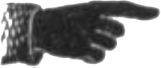
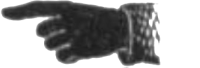
Update index.html

diff --git a/sortokaudet.html b/sortokaudet.html
@@ -7,7 +7,7 @@
 </head>
 <body>
 
-<a id="topsivu" href="index.html">««« Etusivulle</a><br><br>
+<a id="topsivu" href="index.html"> <img src="img/sormi.png" style="height: 20px; vertical-align: middle" alt="sormi">Etusivulle</a><br><br>
 <img src="img/logo_sorto_pieni.png" style="height: 400px; float: right" alt="logo">
 
 <nav> Sisältö:
@@ -30,7 +30,7 @@
     kansallisidentiteettiä, olivat sinivalkoisen lipun kannalla. <br><br> Liput olivat yleensä ihmisten itse tekemiä ja
     suunnittelemia. Niitä käytettiin enimmäkseen huviloissa, veneissä ja erilaisissa juhlatilaisuuksissa. Virallisissa
     tilaisuuksissa näiden lippujen käyttö oli kuitenkin kielletty. Lippujen yleisimmät muodot olivat ristiliput
-    (sininen risti valkoisella tai keltainen risti keltaisella pohjalla), raitaliput (monta vaakasuoraa kapeaa raitaa
+    (sininen risti valkoisella tai punainen risti keltaisella pohjalla), raitaliput (monta vaakasuoraa kapeaa raitaa
     päällekkäin) tai kaksiosaiset liput. Myös leijonaliput säilyivät suosittuina. <br><br>
 
 </p>
@@ -67,11 +67,11 @@ Nimimerkki "von S." ehdotti <a href="lehtiarkisto/1908.11.07-TurunS-vonS.jpg">Tu
 
 <h2 id="22">Pekkalan kartanon lippu</h2>
 <p>
-    Ruovedellä sijaitsevalla Pekkalan kartanolla oli käytössä 1900-luvun vaihteessa ristilippu jossa punaiset kaksoisristit
-    oli asetettu keltaiselle taustalle ja keskelle asetettu leijonavaakuna. Gallen-Kallela on mahdollisesti kyseisen lipun
+    Ruovedellä sijaitsevalla Pekkalan kartanolla oli käytössä 1900-luvun vaihteessa ristilippu jossa keltapunaiset kaksoisristit
+    olivat keltaisella taustalla ja keskelle oli asetettu leijonavaakuna. Gallen-Kallela on mahdollisesti kyseisen lipun
     suunnittelija. Hän, ja kartanon silloinen omistaja nuorsuomalainen valtiopäivämies Alexander Aminoff, olivat
     nuoruudenystäviä ja Gallen-Kallela myös vietti kartanolla paljon aikaa. Lippu myös mahdollisesti inspiroi hänen
-    vuoden 1918 lippumallia. <br><br>
+    <a href="itsenaisyys.html#gallen">vuoden 1918 lippuluonnoksia</a>. <br><br>
 
 <img src="img/sorto_pekkala.jpg" style="height: 250px" alt="Pekkalan kartanon lippu"> <br><br>
 </p>
@@ -120,7 +120,7 @@ Nimimerkki "von S." ehdotti <a href="lehtiarkisto/1908.11.07-TurunS-vonS.jpg">Tu
 
 <hr>
 
-<a href="#topsivu">↑↑↑ Ylös ↑↑↑</a> <br><br><br>
+<a href="#topsivu"><img src="img/sormi2.png" style="height: 50px; vertical-align: middle" alt="sormiylos">Ylös</a>
 
 </body>
 </html>

diff --git a/itsenaisyys.html b/itsenaisyys.html
@@ -6,7 +6,7 @@
     <link rel="stylesheet" href="css/tyyli.css">
 </head>
 <body>
-<a id="topsivu" href="index.html">««« Etusivulle</a><br><br>
+<a id="topsivu" href="index.html"> <img src="img/sormi.png" style="height: 20px; vertical-align: middle" alt="sormi">Etusivulle</a><br><br>
 
 <nav> Sisältö:
     <ul>
@@ -193,7 +193,7 @@
 <img src="img/1918_perustuslakivaliokunta.jpg" style="height: 250px" alt="Valiokunnan kompromissiesitys">
 
 <h3 class="yksityiset">Gallen-Kallelan kannanotto</h3>
-
+<p id="gallen"></p>
 <p>
     Valiokunta päätti pyytää Akseli Gallen-Kallelaa suunnittelemaan lippuluonnosta käyttäen valiokunnan
     kolmiomallia pohjana. Gallen-Kallela oli tähän aikaan yleisesikunnassa töissä piirustuskonttorin
@@ -357,7 +357,7 @@
 
 <hr>
 
-<a href="#topsivu">↑↑↑ Ylös ↑↑↑</a>
+<a href="#topsivu"><img src="img/sormi2.png" style="height: 50px; vertical-align: middle" alt="sormiylos">Ylös</a>
 
 <br><br>
 

diff --git a/1860-luku.html b/1860-luku.html
@@ -8,7 +8,7 @@
 
 </head>
 <body>
-<a id="topsivu" href="index.html">««« Etusivulle</a><br><br>
+<a id="topsivu" href="index.html"> <img src="img/sormi.png" style="height: 20px; vertical-align: middle" alt="sormi">Etusivulle</a><br><br>
 <nav> Sisältö:
     <ul>
         <li><a href="#11">Fredrik Nylanderin ehdotus</a></li>
@@ -323,7 +323,7 @@
     peitetään lumella. Tähti-kuvaus merkitsisi pohjan tähteä meille pohjolaisille! »
 </p>
 <hr>
-<a href="#topsivu">↑↑↑ Ylös ↑↑↑</a>
+<a href="#topsivu"><img src="img/sormi2.png" style="height: 50px; vertical-align: middle" alt="sormiylos">Ylös</a>
 
 <br><br>
 
